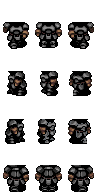
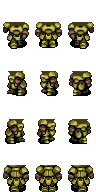
fixed elite armor preview in shop

diff --git a/core/src/com/jnv/betrayal/lobby/shop/Shop.java b/core/src/com/jnv/betrayal/lobby/shop/Shop.java
@@ -23,10 +23,10 @@ public class Shop extends Popup {
 	private Image lobbyButton, background, weapons, armors, extras, items, money, shields, swords;
 	private Image swordButton, armorButton, shieldButton, headGearButton;
 	private Image[] potions, ring1, ring2;
-	private Image[] sword1,sword2,sword3,sword4,sword5;
-	private Image[] shield1,shield2,shield3,shield4,shield5;
-	private Image[] headgear1,headgear2,headgear3, headgear4,headgear5;
-	private Image[] armor1,armor2,armor3,armor4,armor5;
+	private Image[] sword1, sword2, sword3, sword4, sword5;
+	private Image[] shield1, shield2, shield3, shield4, shield5;
+	private Image[] headgear1, headgear2, headgear3, headgear4, headgear5;
+	private Image[] armor1, armor2, armor3, armor4, armor5;
 	private Label title, titleSword1, titleSword2, titleShield1, titleShield2, titleRing1, titleRing2;
 	private Label titleHeadgear1, titleHeadgear2, titleArmor1, titleArmor2, titleItems;
 	private Label[] titleHeadgear, titleShield, titleArmor, titleSword;
@@ -70,7 +70,8 @@ public class Shop extends Popup {
 		loadButtons();
 		loadCurrentActors();
 	}
-	private void loadCurrentActors(){
+
+	private void loadCurrentActors() {
 		popup.addActor(currentGroup);
 	}
 
@@ -104,7 +105,7 @@ public class Shop extends Popup {
 	private void loadReturnToLobbyButton() {
 		lobbyButton = new Image(res.getTexture("back-to-lobby"));
 		lobbyButton.layout();
-		lobbyButton.setBounds((Betrayal.WIDTH-312)/2, 110, 312, 100);
+		lobbyButton.setBounds((Betrayal.WIDTH - 312) / 2, 110, 312, 100);
 		lobbyButton.addListener(new InputListener(lobbyButton) {
 			@Override
 			public void doAction() {
@@ -272,7 +273,7 @@ public class Shop extends Popup {
 		currentGroup.addActor(shieldButton);
 	}
 
-	private void loadShields(){
+	private void loadShields() {
 		for (int i = 1; i <= 6; i++) {
 			final String item1 = "shield" + i + "1";
 			final String item2 = "shield" + i + "2";
@@ -321,7 +322,7 @@ public class Shop extends Popup {
 			shield4[i - 1].layout();
 			shield4[i - 1].setBounds(100 + itemSize * (i - 1),
 					Betrayal.HEIGHT - buttonHeight - 150 - itemSize * 7, itemSize, itemSize);
-			shield4[i - 1].addListener(new InputListener(shield2[i-1]) {
+			shield4[i - 1].addListener(new InputListener(shield2[i - 1]) {
 				@Override
 				public void doAction() {
 					new ShopPurchasePopup(game, new Shield(item4, res));
@@ -343,7 +344,7 @@ public class Shop extends Popup {
 		}
 		swordButton = new Image(res.getTexture("sword-button"));
 		swordButton.layout();
-		swordButton.setBounds(460,1035,150,60);
+		swordButton.setBounds(460, 1035, 150, 60);
 		swordButton.addListener(new InputListener(swordButton) {
 			@Override
 			public void doAction() {
@@ -357,21 +358,21 @@ public class Shop extends Popup {
 
 	private void loadSwordTitles() {
 		int spacing = 172;
-		for (int i=1; i<=5; i++) {
-			titleSword[i-1] = new Label("Sword(tier"+i+")", FontManager.getFont(40));
-			titleSword[i-1].setX(110);
-			titleSword[i-1].setY(Betrayal.HEIGHT - 250 - (i - 1) * spacing);
-			currentGroup.addActor(titleSword[i-1]);
+		for (int i = 1; i <= 5; i++) {
+			titleSword[i - 1] = new Label("Sword(tier" + i + ")", FontManager.getFont(40));
+			titleSword[i - 1].setX(110);
+			titleSword[i - 1].setY(Betrayal.HEIGHT - 250 - (i - 1) * spacing);
+			currentGroup.addActor(titleSword[i - 1]);
 		}
 	}
 
-	private void loadShieldTitles(){
+	private void loadShieldTitles() {
 		int spacing = 172;
-		for (int i=1; i<=5; i++) {
-			titleShield[i-1] = new Label("Shield(tier"+i+")", FontManager.getFont(40));
-			titleShield[i-1].setX(110);
-			titleShield[i-1].setY(Betrayal.HEIGHT - 250 - (i-1)*spacing);
-			currentGroup.addActor(titleShield[i-1]);
+		for (int i = 1; i <= 5; i++) {
+			titleShield[i - 1] = new Label("Shield(tier" + i + ")", FontManager.getFont(40));
+			titleShield[i - 1].setX(110);
+			titleShield[i - 1].setY(Betrayal.HEIGHT - 250 - (i - 1) * spacing);
+			currentGroup.addActor(titleShield[i - 1]);
 		}
 	}
 
@@ -444,7 +445,7 @@ public class Shop extends Popup {
 
 		titleItems = new Label("Potions", FontManager.getFont(40));
 		titleItems.setX(110);
-		titleItems.setY(Betrayal.HEIGHT - 250-172*2);
+		titleItems.setY(Betrayal.HEIGHT - 250 - 172 * 2);
 		currentGroup.addActor(titleItems);
 	}
 
@@ -519,89 +520,91 @@ public class Shop extends Popup {
 		}
 		armorButton = new Image(res.getTexture("armor-button"));
 		armorButton.layout();
-		armorButton.setBounds(460,1035,150,60);
+		armorButton.setBounds(460, 1035, 150, 60);
 		armorButton.addListener(new InputListener(armorButton) {
 			@Override
 			public void doAction() {
 				removeCurrentContent();
 				loadArmor();
+				loadBestArmor();
 				loadArmorTitle();
 			}
 		});
 		currentGroup.addActor(armorButton);
 	}
 
-	private void loadArmor(){
-		for(int i=1; i<=6; i++) {
-			final String item1 = "armor" + i + "1";
-			final String item2 = "armor" + i + "2";
-			final String item3 = "armor" + i + "3";
-			final String item4 = "armor" + i + "4";
-			final String item5 = "armor" + i + "5";
-			armor1[i - 1] = new Image(res.getTexture(item1));
-			armor1[i - 1].layout();
-			armor1[i - 1].setBounds(100 + itemSize * (i - 1),
+	private void loadArmor() {
+		for (int color = 1; color <= 6; color++) {
+			final String tier1String = "armor" + color + "1";
+			final String tier2String = "armor" + color + "2";
+			final String tier3String = "armor" + color + "3";
+			final String tier4String = "armor" + color + "4";
+			final String tier5String = "armor" + color + "5s";
+
+			armor1[color - 1] = new Image(res.getTexture(tier1String));
+			armor1[color - 1].layout();
+			armor1[color - 1].setBounds(100 + itemSize * (color - 1),
 					Betrayal.HEIGHT - buttonHeight - 150 - itemSize * 1, itemSize, itemSize);
-			armor1[i - 1].addListener(new InputListener(armor1[i - 1]) {
+			armor1[color - 1].addListener(new InputListener(armor1[color - 1]) {
 				@Override
 				public void doAction() {
-					new ShopPurchasePopup(game, new BodyArmor(item1, res));
+					new ShopPurchasePopup(game, new BodyArmor(tier1String, res));
 				}
 			});
-			currentGroup.addActor(armor1[i - 1]);
+			currentGroup.addActor(armor1[color - 1]);
 
-			armor2[i - 1] = new Image(res.getTexture(item2));
-			armor2[i - 1].layout();
-			armor2[i - 1].setBounds(100 + itemSize * (i - 1),
+			armor2[color - 1] = new Image(res.getTexture(tier2String));
+			armor2[color - 1].layout();
+			armor2[color - 1].setBounds(100 + itemSize * (color - 1),
 					Betrayal.HEIGHT - buttonHeight - 150 - itemSize * 3, itemSize, itemSize);
-			armor2[i - 1].addListener(new InputListener(armor2[i - 1]) {
+			armor2[color - 1].addListener(new InputListener(armor2[color - 1]) {
 				@Override
 				public void doAction() {
-					new ShopPurchasePopup(game, new BodyArmor(item2, res));
+					new ShopPurchasePopup(game, new BodyArmor(tier2String, res));
 				}
 			});
-			currentGroup.addActor(armor2[i - 1]);
+			currentGroup.addActor(armor2[color - 1]);
 
-			armor3[i - 1] = new Image(res.getTexture(item3));
-			armor3[i - 1].layout();
-			armor3[i - 1].setBounds(100 + itemSize * (i - 1),
+			armor3[color - 1] = new Image(res.getTexture(tier3String));
+			armor3[color - 1].layout();
+			armor3[color - 1].setBounds(100 + itemSize * (color - 1),
 					Betrayal.HEIGHT - buttonHeight - 150 - itemSize * 5, itemSize, itemSize);
-			armor3[i - 1].addListener(new InputListener(armor3[i - 1]) {
+			armor3[color - 1].addListener(new InputListener(armor3[color - 1]) {
 				@Override
 				public void doAction() {
-					new ShopPurchasePopup(game, new BodyArmor(item3, res));
+					new ShopPurchasePopup(game, new BodyArmor(tier3String, res));
 				}
 			});
-			currentGroup.addActor(armor3[i - 1]);
+			currentGroup.addActor(armor3[color - 1]);
 
-			armor4[i - 1] = new Image(res.getTexture(item4));
-			armor4[i - 1].layout();
-			armor4[i - 1].setBounds(100 + itemSize * (i - 1),
+			armor4[color - 1] = new Image(res.getTexture(tier4String));
+			armor4[color - 1].layout();
+			armor4[color - 1].setBounds(100 + itemSize * (color - 1),
 					Betrayal.HEIGHT - buttonHeight - 150 - itemSize * 7, itemSize, itemSize);
-			armor4[i - 1].addListener(new InputListener(armor4[i - 1]) {
+			armor4[color - 1].addListener(new InputListener(armor4[color - 1]) {
 				@Override
 				public void doAction() {
-					new ShopPurchasePopup(game, new BodyArmor(item4, res));
+					new ShopPurchasePopup(game, new BodyArmor(tier4String, res));
 				}
 			});
-			currentGroup.addActor(armor4[i - 1]);
+			currentGroup.addActor(armor4[color - 1]);
 
 			//Armor5
-			armor5[i - 1] = new Image(res.getTexture(item5));
-			armor5[i - 1].layout();
-			armor5[i - 1].setBounds(100 + itemSize * (i - 1),
+			armor5[color - 1] = new Image(res.getTexture(tier5String));
+			armor5[color - 1].layout();
+			armor5[color - 1].setBounds(100 + itemSize * (color - 1),
 					Betrayal.HEIGHT - buttonHeight - 150 - itemSize * 9, itemSize, itemSize);
-			armor5[i - 1].addListener(new InputListener(armor5[i - 1]) {
+			armor5[color - 1].addListener(new InputListener(armor5[color - 1]) {
 				@Override
 				public void doAction() {
-					new ShopPurchasePopup(game, new BodyArmor(item4, res));
+					new ShopPurchasePopup(game, new BodyArmor(tier5String, res));
 				}
 			});
-			currentGroup.addActor(armor5[i - 1]);
+			currentGroup.addActor(armor5[color - 1]);
 		}
 		headGearButton = new Image(res.getTexture("headgear-button"));
 		headGearButton.layout();
-		headGearButton.setBounds(460,1035,150,60);
+		headGearButton.setBounds(460, 1035, 150, 60);
 		headGearButton.addListener(new InputListener(headGearButton) {
 			@Override
 			public void doAction() {
@@ -613,22 +616,26 @@ public class Shop extends Popup {
 		currentGroup.addActor(headGearButton);
 	}
 
+	private void loadBestArmor() {
+
+	}
+
 	private void loadHeadgearTitle() {
 		int spacing = 172;
-		for (int i=1; i<=5; i++) {
-			titleHeadgear[i-1] = new Label("Headgear(tier"+i+")", FontManager.getFont(40));
-			titleHeadgear[i-1].setX(110);
-			titleHeadgear[i-1].setY(Betrayal.HEIGHT - 250 - (i-1)*spacing);
-			currentGroup.addActor(titleHeadgear[i-1]);
+		for (int i = 1; i <= 5; i++) {
+			titleHeadgear[i - 1] = new Label("Headgear(tier" + i + ")", FontManager.getFont(40));
+			titleHeadgear[i - 1].setX(110);
+			titleHeadgear[i - 1].setY(Betrayal.HEIGHT - 250 - (i - 1) * spacing);
+			currentGroup.addActor(titleHeadgear[i - 1]);
 		}
 	}
 
-	private void loadArmorTitle(){
+	private void loadArmorTitle() {
 		int spacing = 172;
-		for (int i=1; i<=5; i++) {
-			titleArmor[i-1] = new Label("Armor(tier"+i+")", FontManager.getFont(40));
-			titleArmor[i-1].setX(110);
-			titleArmor[i-1].setY(Betrayal.HEIGHT - 250 - (i-1)*spacing);
+		for (int i = 1; i <= 5; i++) {
+			titleArmor[i - 1] = new Label("Armor(tier" + i + ")", FontManager.getFont(40));
+			titleArmor[i - 1].setX(110);
+			titleArmor[i - 1].setY(Betrayal.HEIGHT - 250 - (i - 1) * spacing);
 			currentGroup.addActor(titleArmor[i - 1]);
 		}
 	}

diff --git a/core/src/com/jnv/betrayal/resources/ResourceLoader.java b/core/src/com/jnv/betrayal/resources/ResourceLoader.java
@@ -198,10 +198,14 @@ public class ResourceLoader {
 	}
 
 	private void loadArmor() {
-		for (int tier = 1; tier <= 5; tier++) {
+		for (int tier = 1; tier < 5; tier++) {
 			for (int color = 1; color <= 6; color++) {
 				res.loadTexture("shop/armor" + tier + color + ".png", "armor" + color + tier);
 			}
+		}
+
+		for (int color = 1; color <= 6; color++) {
+			res.loadTexture("shop/armor" + 5 + color + ".png", "armor" + color + 5 + "s");
 		}
 
 		res.loadTexture("armor/brown_cloak.png", "armor-cloak-brown");
@@ -257,18 +261,18 @@ public class ResourceLoader {
 
 	private void loadArmorPreview() {
 		res.loadTexture("character/armor0.png", "previewarmor0");
-		res.loadTexture("character/armor1b.png", "previewarmor1");
-		res.loadTexture("character/armor1c.png", "previewarmor2");
-		res.loadTexture("character/armor1a.png", "previewarmor3");
+		res.loadTexture("character/armor1a.png", "previewarmor1");
+		res.loadTexture("character/armor1b.png", "previewarmor2");
+		res.loadTexture("character/armor1c.png", "previewarmor3");
 		res.loadTexture("character/armor1d.png", "previewarmor4");
 		res.loadTexture("character/armor1e.png", "previewarmor5");
 		res.loadTexture("character/armor1f.png", "previewarmor6");
-		res.loadTexture("character/armor2a.png", "previewarmor1");
-		res.loadTexture("character/armor2b.png", "previewarmorblack");
-		res.loadTexture("character/armor2c.png", "previewarmorgold");
-		res.loadTexture("character/armor2d.png", "previewarmorblue");
-		res.loadTexture("character/armor2e.png", "previewarmorgreen");
-		res.loadTexture("character/armor2f.png", "previewarmorpurple");
+		res.loadTexture("character/armor2a.png", "previewarmor15");
+		res.loadTexture("character/armor2b.png", "previewarmor25");
+		res.loadTexture("character/armor2c.png", "previewarmor35");
+		res.loadTexture("character/armor2d.png", "previewarmor45");
+		res.loadTexture("character/armor2e.png", "previewarmor55");
+		res.loadTexture("character/armor2f.png", "previewarmor65");
 		res.loadTexture("character/cloak1a.png", "previewcloakbrown");
 		res.loadTexture("character/cloak1b.png", "previewcloakblack");
 	}
@@ -494,7 +498,7 @@ public class ResourceLoader {
 
 			new BodyArmor.ArmorFactory(res)
 					.id(color + 84) // id - 85 to 90
-					.name("armor" + color + "5")
+					.name("armor" + color + "5s")
 					.costBuy(500)
 					.defense(10)
 					.build();

diff --git a/core/src/com/jnv/betrayal/gameobjects/BodyArmor.java b/core/src/com/jnv/betrayal/gameobjects/BodyArmor.java
@@ -22,7 +22,7 @@ public class BodyArmor extends Equip implements Previewable {
 		this.defense = defense;
 	}
 
-	public int getDefense() { return defense;}
+	public int getDefense() { return defense; }
 
 	public Texture getPreview() {
 		return preview;
@@ -39,10 +39,11 @@ public class BodyArmor extends Equip implements Previewable {
 			this.res = res;
 		}
 
-		public ArmorFactory id(int id){
+		public ArmorFactory id(int id) {
 			this.id = id;
 			return this;
 		}
+
 		public ArmorFactory name(String name) {
 			this.name = name;
 			return this;
@@ -61,7 +62,6 @@ public class BodyArmor extends Equip implements Previewable {
 		public BodyArmor build() {
 			return new BodyArmor(id, name, res, costBuy, defense);
 		}
-
 	}
 
 }
